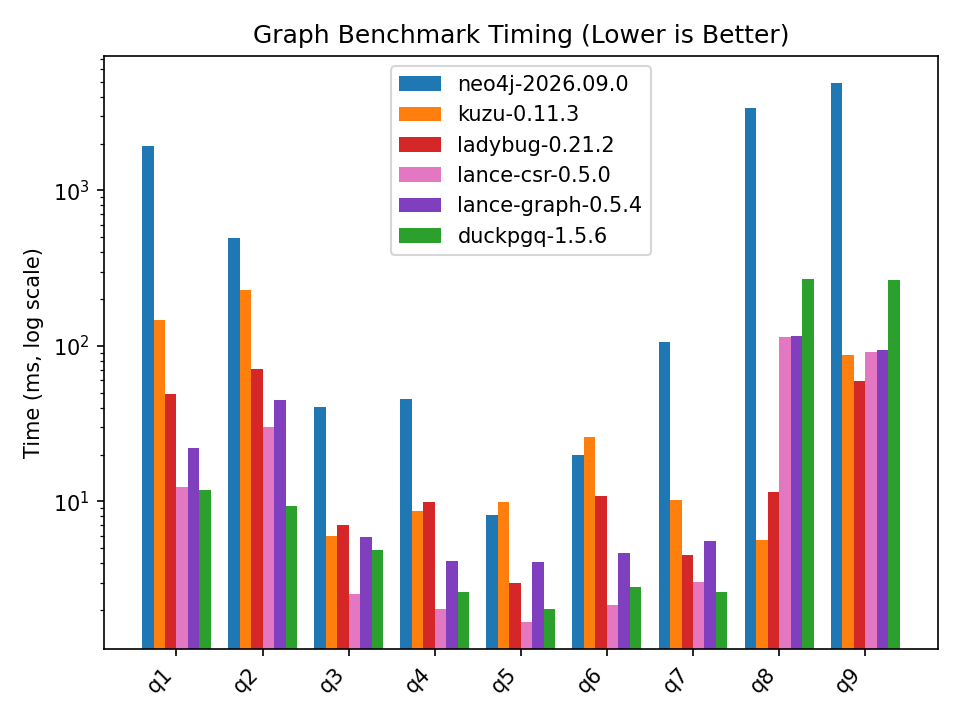
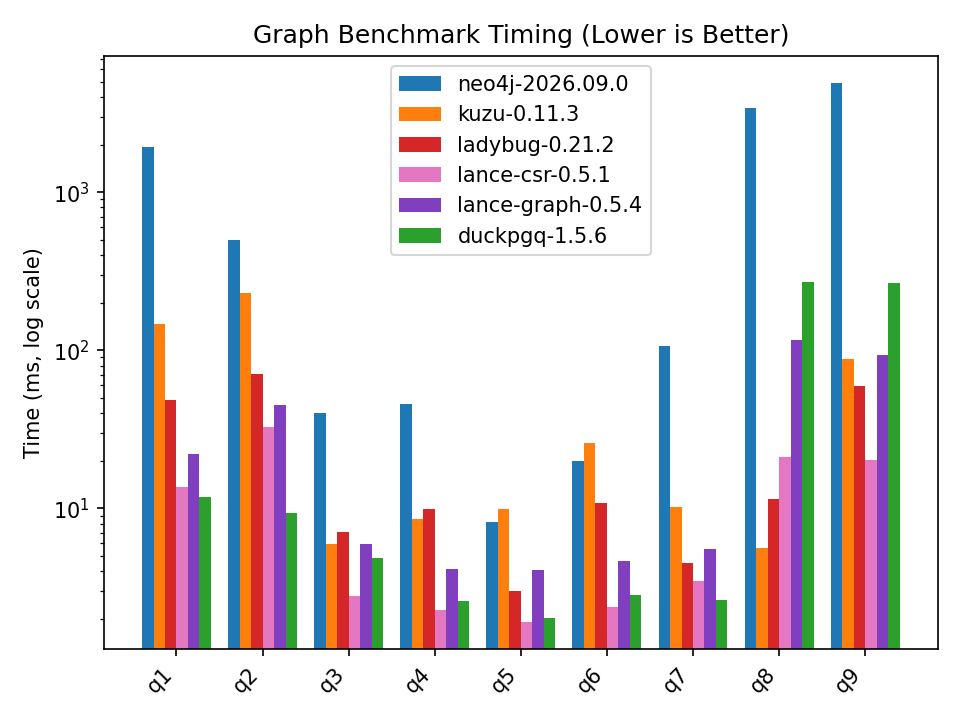
chore(bench): update lance-csr to 0.5.1 (#21)
* chore(bench): update lance-csr to 0.5.1

lance-csr 0.5.1 counts two-hop paths from per-node degrees, which
brings q8 from 114 to 21 ms and q9 from 91 to 20 ms. q1 to q7 are
unchanged within noise. The use_csr comparison is rerun on 0.5.1 and
still favors the default settings.

* docs(bench): note lance engines run in memory, Kuzu/Ladybug on disk

* docs(bench): tighten lance-csr notes into bullets

diff --git a/lance_csr/query.py b/lance_csr/query.py
@@ -2,7 +2,7 @@
 
 Builds one `CypherEngine` over in-memory Arrow tables and reuses it across
 benchmark queries. The experimental CSR index (`use_csr=True`) is left off: it
-was slower on q2/q8/q9 here (see results/archive/lance-csr-0.5.0-use-csr.txt).
+was slower on q1/q2/q8/q9 here (see results/archive/lance-csr-0.5.1-use-csr.txt).
 """
 
 import time

diff --git a/README.md b/README.md
@@ -108,23 +108,27 @@ All numbers below are the mean latency over multiple `pytest-benchmark` rounds, 
 | OS | macOS 26.6.2 |
 | Python | 3.13.14 (via `uv`) |
 | Neo4j | 2026.09.0 community edition, in Docker 29.8.1 (2 GB page cache, 2–4 GB heap) |
-| Embedded systems | Kuzu 0.11.3, Ladybug 0.21.2, lance-graph 0.5.4, lance-csr 0.5.0, DuckDB 1.5.6 + DuckPGQ (`61f5d082`) |
+| Embedded systems | Kuzu 0.11.3, Ladybug 0.21.2, lance-graph 0.5.4, lance-csr 0.5.1, DuckDB 1.5.6 + DuckPGQ (`61f5d082`) |
 
-| Query | neo4j-2026.09.0 (ms) | kuzu-0.11.3 (ms) | ladybug-0.21.2 (ms) | lance-csr-0.5.0 (ms) | lance-graph-0.5.4 (ms) | duckpgq-1.5.6 (ms) |
+| Query | neo4j-2026.09.0 (ms) | kuzu-0.11.3 (ms) | ladybug-0.21.2 (ms) | lance-csr-0.5.1 (ms) | lance-graph-0.5.4 (ms) | duckpgq-1.5.6 (ms) |
 | --- | --- | --- | --- | --- | --- | --- |
-| q1 | 1919.1ms | 145.7ms (13.2x) | 48.8ms (39.3x) | 12.4ms (154.6x) | 22.0ms (87.2x) | 11.9ms (161.6x) |
-| q2 | 496.1ms | 228.8ms (2.2x) | 71.1ms (7.0x) | 30.0ms (16.6x) | 44.9ms (11.0x) | 9.4ms (52.8x) |
-| q3 | 40.2ms | 6.0ms (6.7x) | 7.0ms (5.7x) | 2.5ms (16.0x) | 5.9ms (6.8x) | 4.8ms (8.3x) |
-| q4 | 45.8ms | 8.6ms (5.3x) | 10.0ms (4.6x) | 2.0ms (22.5x) | 4.2ms (11.0x) | 2.6ms (17.6x) |
-| q5 | 8.2ms | 9.8ms (0.8x) | 3.0ms (2.7x) | 1.7ms (4.9x) | 4.1ms (2.0x) | 2.0ms (4.0x) |
-| q6 | 19.8ms | 25.9ms (0.8x) | 10.8ms (1.8x) | 2.2ms (9.2x) | 4.6ms (4.3x) | 2.8ms (7.0x) |
-| q7 | 106.5ms | 10.2ms (10.4x) | 4.5ms (23.7x) | 3.0ms (35.0x) | 5.5ms (19.3x) | 2.6ms (40.5x) |
-| q8 | 3407.5ms | 5.6ms (607.4x) | 11.5ms (296.3x) | 113.9ms (29.9x) | 115.3ms (29.6x) | 270.6ms (12.6x) |
-| q9 | 4903.0ms | 87.8ms (55.8x) | 59.5ms (82.5x) | 90.7ms (54.1x) | 93.6ms (52.4x) | 264.6ms (18.5x) |
+| q1 | 1919.1ms | 145.7ms (13.2x) | 48.8ms (39.3x) | 13.6ms (141.3x) | 22.0ms (87.2x) | 11.9ms (161.6x) |
+| q2 | 496.1ms | 228.8ms (2.2x) | 71.1ms (7.0x) | 32.5ms (15.2x) | 44.9ms (11.0x) | 9.4ms (52.8x) |
+| q3 | 40.2ms | 6.0ms (6.7x) | 7.0ms (5.7x) | 2.8ms (14.5x) | 5.9ms (6.8x) | 4.8ms (8.3x) |
+| q4 | 45.8ms | 8.6ms (5.3x) | 10.0ms (4.6x) | 2.3ms (20.2x) | 4.2ms (11.0x) | 2.6ms (17.6x) |
+| q5 | 8.2ms | 9.8ms (0.8x) | 3.0ms (2.7x) | 1.9ms (4.3x) | 4.1ms (2.0x) | 2.0ms (4.0x) |
+| q6 | 19.8ms | 25.9ms (0.8x) | 10.8ms (1.8x) | 2.4ms (8.3x) | 4.6ms (4.3x) | 2.8ms (7.0x) |
+| q7 | 106.5ms | 10.2ms (10.4x) | 4.5ms (23.7x) | 3.4ms (30.9x) | 5.5ms (19.3x) | 2.6ms (40.5x) |
+| q8 | 3407.5ms | 5.6ms (607.4x) | 11.5ms (296.3x) | 21.2ms (160.7x) | 115.3ms (29.6x) | 270.6ms (12.6x) |
+| q9 | 4903.0ms | 87.8ms (55.8x) | 59.5ms (82.5x) | 20.2ms (243.0x) | 93.6ms (52.4x) | 264.6ms (18.5x) |
 
 ![](./results/benchmark_plot.png)
 
 > 🔥 The n-hop path-finding queries (8 and 9) in Kuzu/Ladybug benefit from hybrid joins (WCOJ + binary) and factorization, which are query processing innovations described in the [Kùzu research paper](https://www.cidrdb.org/cidr2023/papers/p48-jin.pdf).
+
+> [!NOTE]
+> - lance-csr and lance-graph: in-memory Arrow tables, loaded before the timed queries
+> - Kuzu/Ladybug: CSR adjacency lists on disk, as part of the storage format
 
 ## Explanation of results
 

diff --git a/results/README.md b/results/README.md
@@ -48,7 +48,12 @@ DuckPGQ shows the same pattern as `lance-graph` on `q8`/`q9`: it is very fast on
 
 `lance-graph` (which relies on a DataFusion query plan) still performs well on `q8`/`q9` because the engine is vectorized, columnar, and parallel, and it can stream through large joins and aggregates efficiently when the data is already in Arrow/Lance form. However, unless the optimizer applies a rewrite equivalent to the degree-product formulation, the engine still does work proportional to the number of join matches, which helps explain why it is substantially faster than Neo4j while remaining slower than Kuzu/Ladybug on these path-counting queries.
 
-`lance-csr` is a fork of `lance-graph` and runs the same Cypher queries over the same in-memory Arrow tables. It is roughly 1.5–2.5x faster than `lance-graph` on `q1`–`q7` and about the same on `q8`/`q9`, so on the path-counting queries it also enumerates the join matches rather than using a degree-product rewrite. Its experimental CSR adjacency index (`use_csr=True`) only covers single-hop patterns and made `q2`, `q8` and `q9` slower here, so the numbers above use the engine's default settings.
+`lance-csr` is a fork of `lance-graph` that runs the same Cypher queries:
+
+- `q1`–`q7`: roughly 1.5–2x faster than `lance-graph`.
+- `q8`/`q9`: since 0.5.1, it sums `inDegree(b) * outDegree(b)` per middle node `b` instead of building every path. About 5x faster than `lance-graph`, fastest on `q9`, behind Kuzu/Ladybug on `q8`.
+- Storage: both Lance engines query in-memory Arrow tables, loaded before the timed queries. Kuzu/Ladybug read their CSR adjacency lists from disk.
+- `use_csr=True`: covers single-hop patterns only, and made `q1`, `q2`, `q8` and `q9` slower, so the numbers above use the defaults.
 
 ## Inspecting query plans
 

diff --git a/lance_csr/README.md b/lance_csr/README.md
@@ -15,7 +15,7 @@ across queries. The Cypher queries are identical to the ones in `lance_graph/`.
 uv add lance-csr
 ```
 
-lance-csr 0.5.0 needs `pylance` 13.x to write Lance datasets.
+lance-csr 0.5.1 needs `pylance` 13.x to write Lance datasets.
 
 ## Build graph
 
@@ -42,7 +42,7 @@ uv run pytest benchmark_query.py --benchmark-min-rounds=5 --benchmark-warmup-ite
 ```
 
 The engine runs with its default settings. The experimental in-memory CSR adjacency
-(`CypherEngine(..., use_csr=True)`) was slower on this benchmark: about 89 ms vs 30 ms
-on q2, 166 ms vs 114 ms on q8 and 128 ms vs 91 ms on q9. That run is kept in
-`results/archive/lance-csr-0.5.0-use-csr.txt`. Reading the Lance datasets lazily
+(`CypherEngine(..., use_csr=True)`) was slower on this benchmark: about 52 ms vs 14 ms
+on q1, 172 ms vs 33 ms on q2, 30 ms vs 21 ms on q8 and 24 ms vs 20 ms on q9. That run
+is kept in `results/archive/lance-csr-0.5.1-use-csr.txt`. Reading the Lance datasets lazily
 instead of loading them into memory was also slower, by roughly 5–15%.
